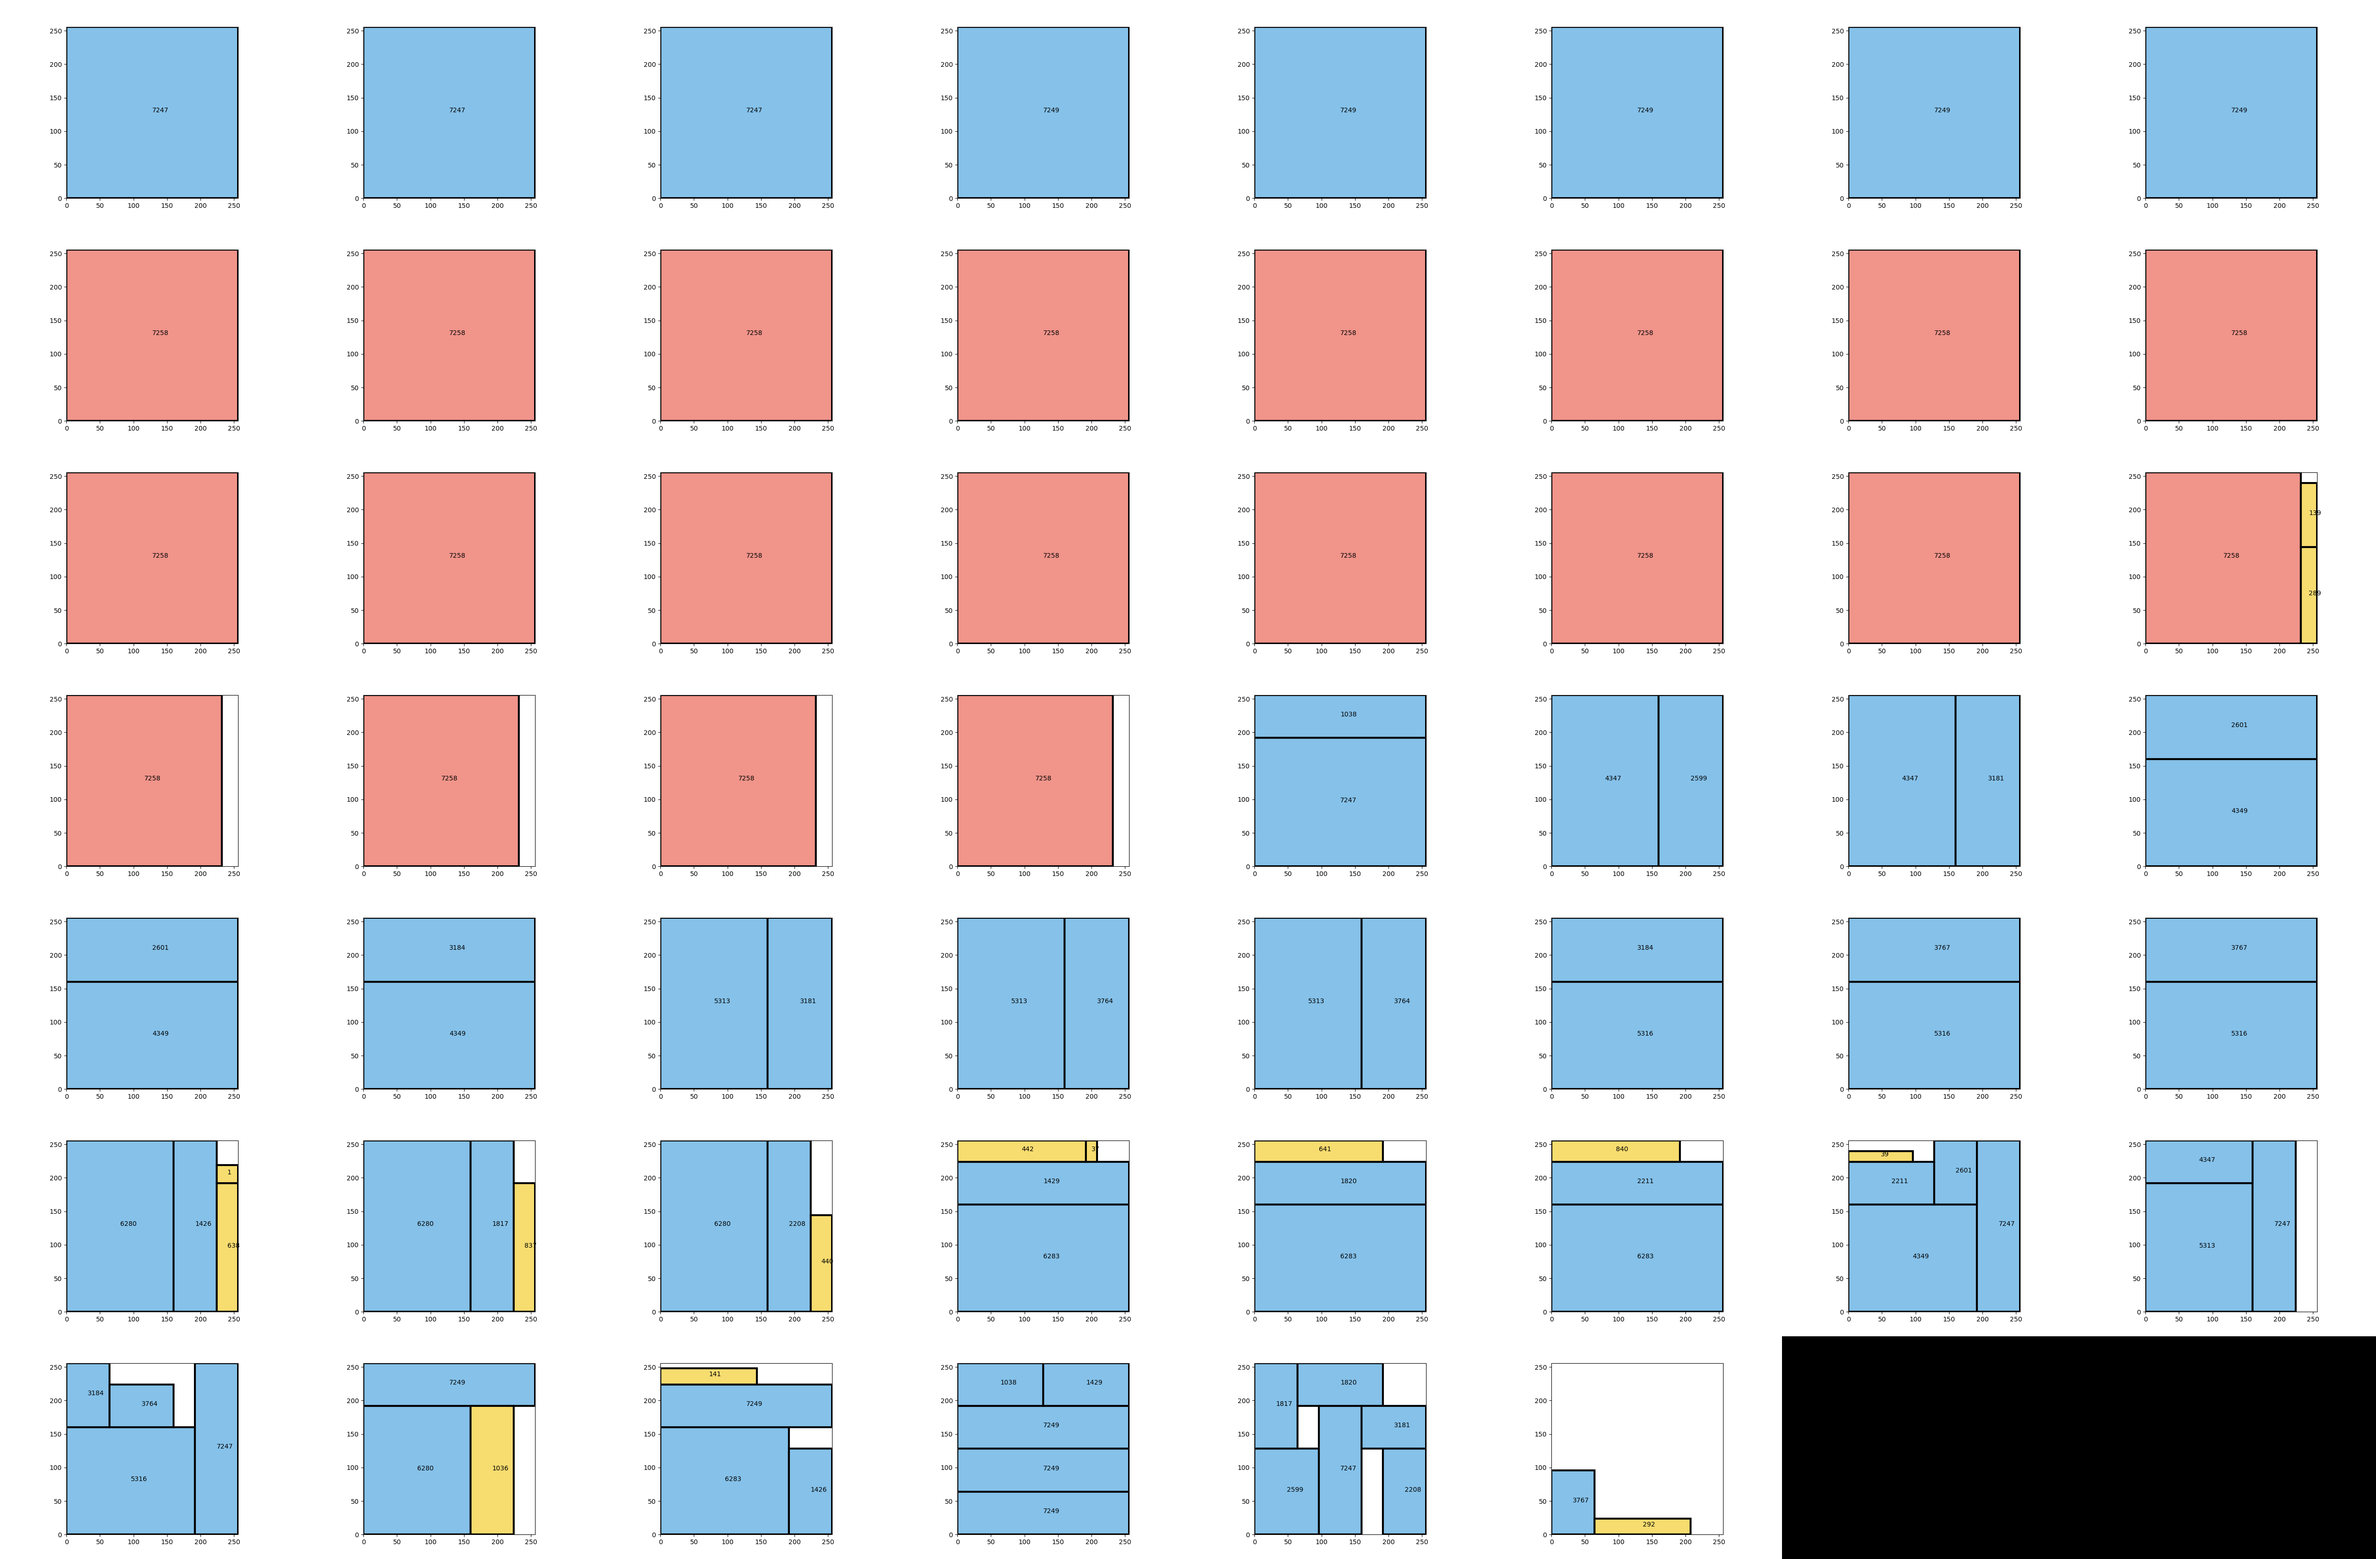
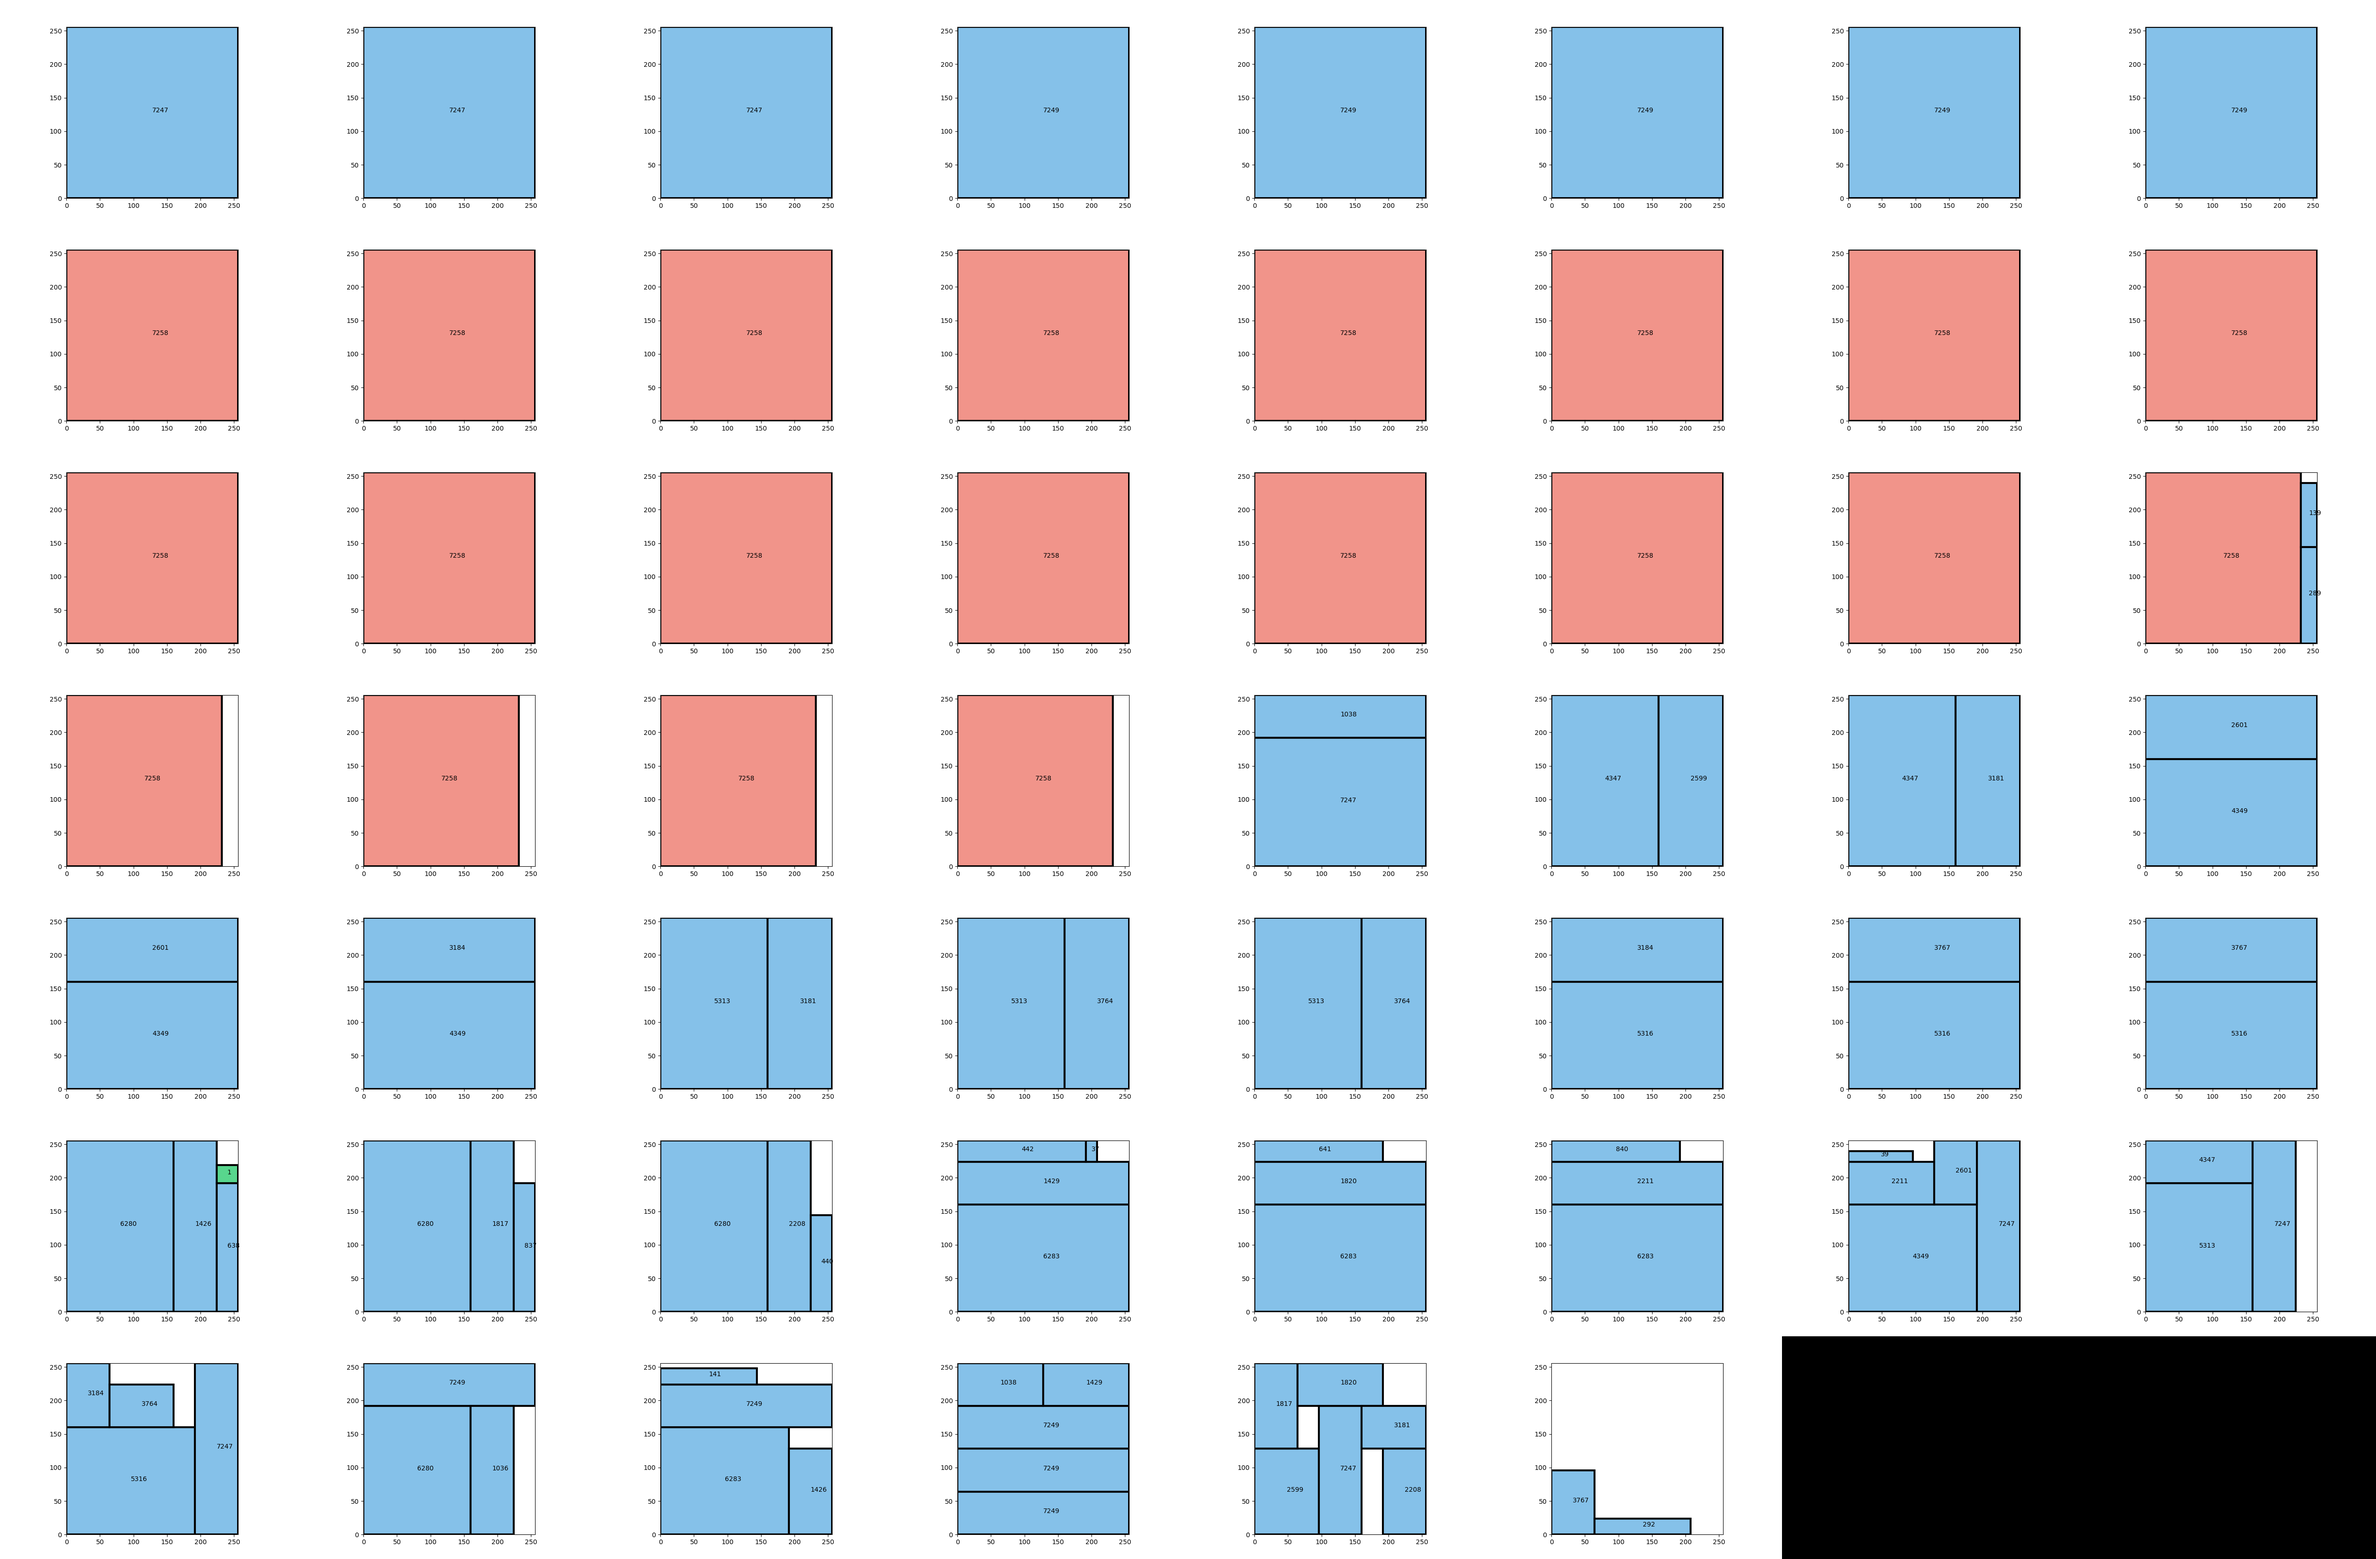
fixed non-split matrices from_type generation

diff --git a/hwacctools/comp_graph/splitter.py b/hwacctools/comp_graph/splitter.py
@@ -90,6 +90,10 @@ def split_conv_into_chunks(cnode:cnodes.conv_node,H:int,W:int):
     strides = cnode.strides
 
     if len(submatrices) == 1 and len(submatrices[0]) == 1:
+        if ksize == 1:
+            cnode.from_type = 'pointwise'
+        else:
+            cnode.from_type = 'conv'
         return [cnode]
 
     nodes = []
@@ -140,10 +144,11 @@ def split_conv_into_chunks(cnode:cnodes.conv_node,H:int,W:int):
     output_tensorizer = cnodes.reshaper_node([cat_output_edge],cnode.outputs,channels = C)
     nodes.append(output_tensorizer)
 
-    for node in nodes:
-        if ksize == 1:
+    if ksize == 1:
+        for node in nodes:
             node.from_type = 'pointwise'
-        else:
+    else:
+        for node in nodes:
             node.from_type = 'conv'
 
     return nodes

diff --git a/hwacctools/comp_graph/cgraph.py b/hwacctools/comp_graph/cgraph.py
@@ -183,7 +183,7 @@ class Cgraph(object):
 
         red = gemm
         blue = pointwise conv
-        green = regular conv
+        yellow = regular conv
 
         Depthwise convolutions are not included in the coloring.
         '''
@@ -194,8 +194,10 @@ class Cgraph(object):
                     node.color = '#f1948a' # Red
                 elif node.from_type == 'pointwise':
                     node.color = '#85c1e9' # Blue
+                elif node.from_type == 'conv':
+                    node.color = '#58d68d' # Yellow
                 else:
-                    node.color = '#58d68d' # Green
+                    node.color = 'white'
 
         return self.generate_color_dict()
     
